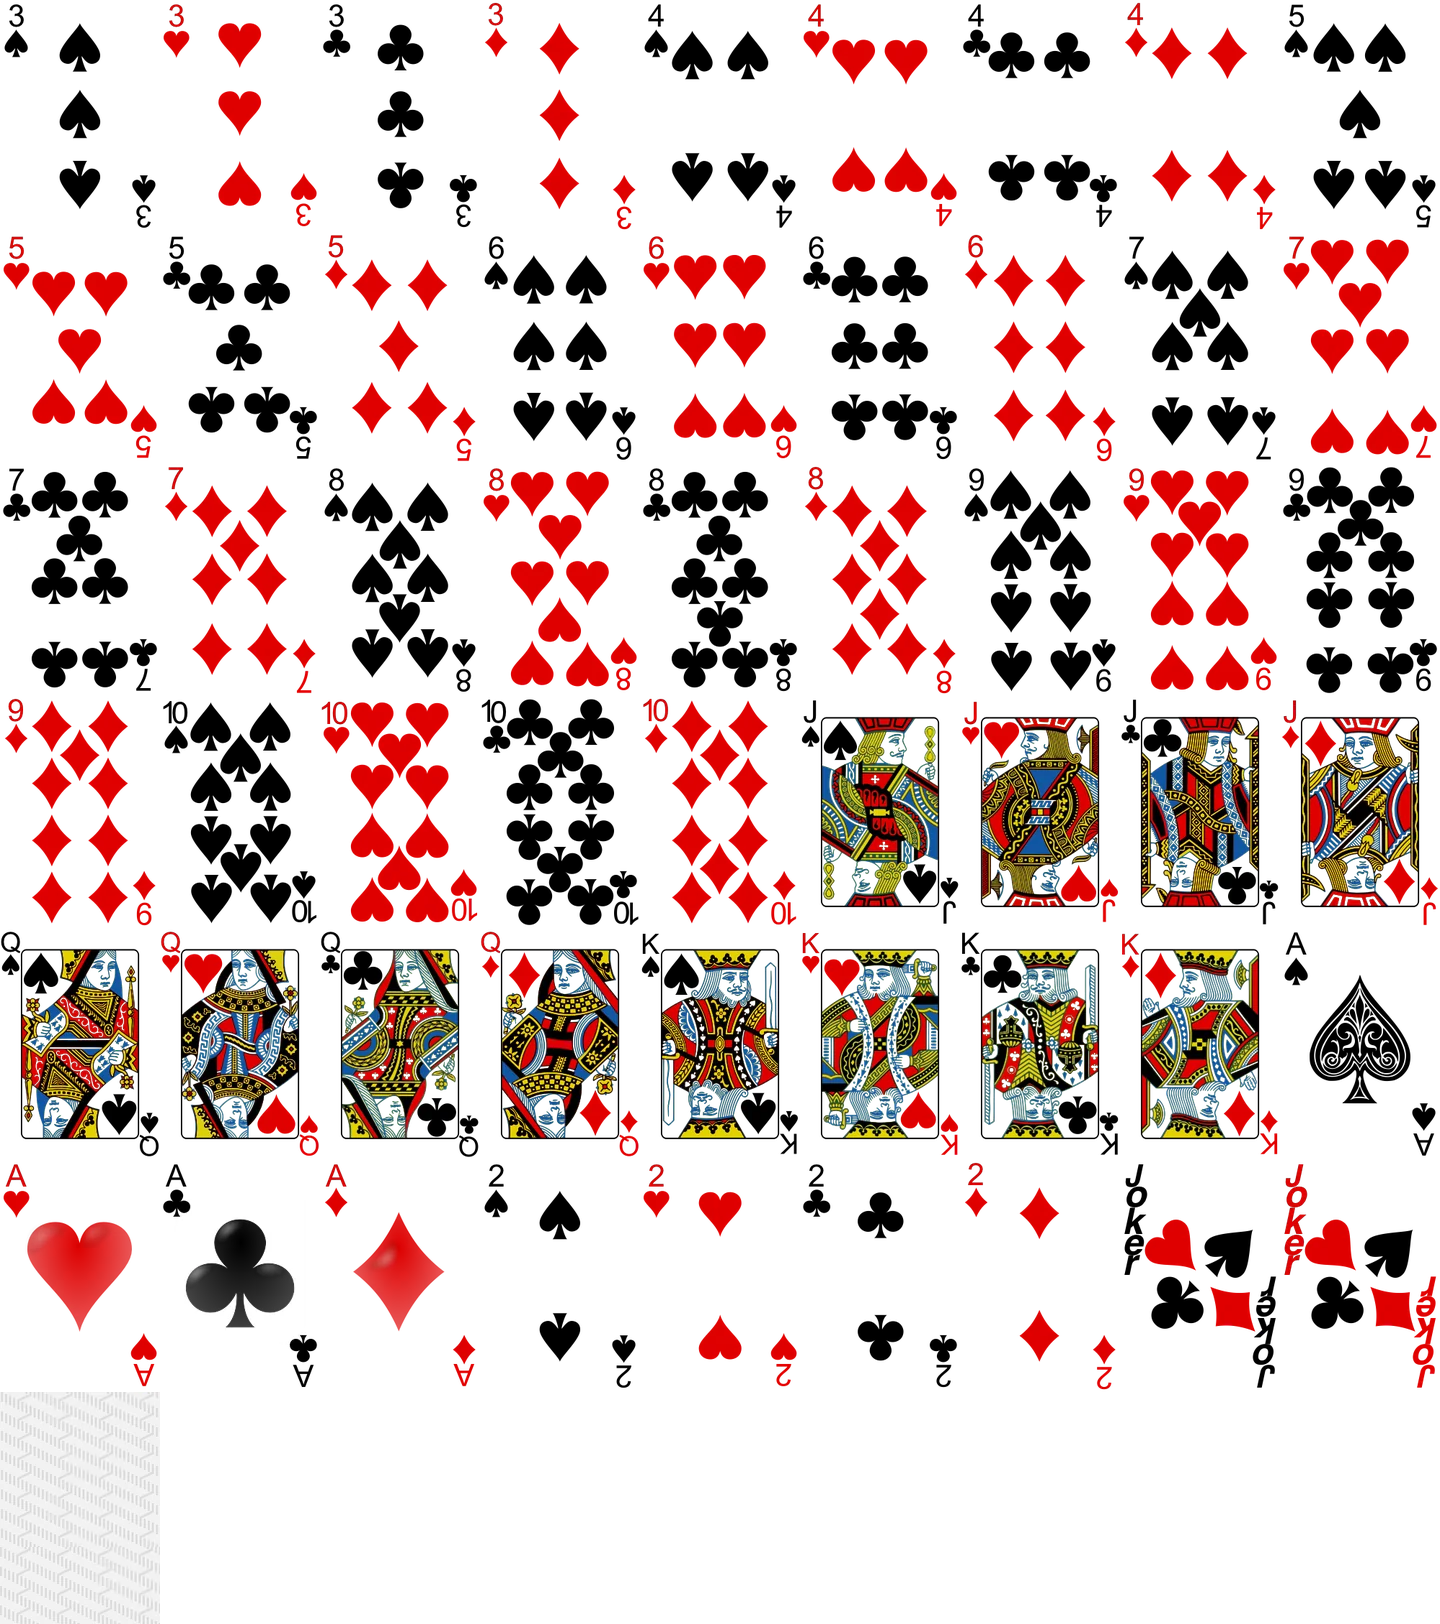
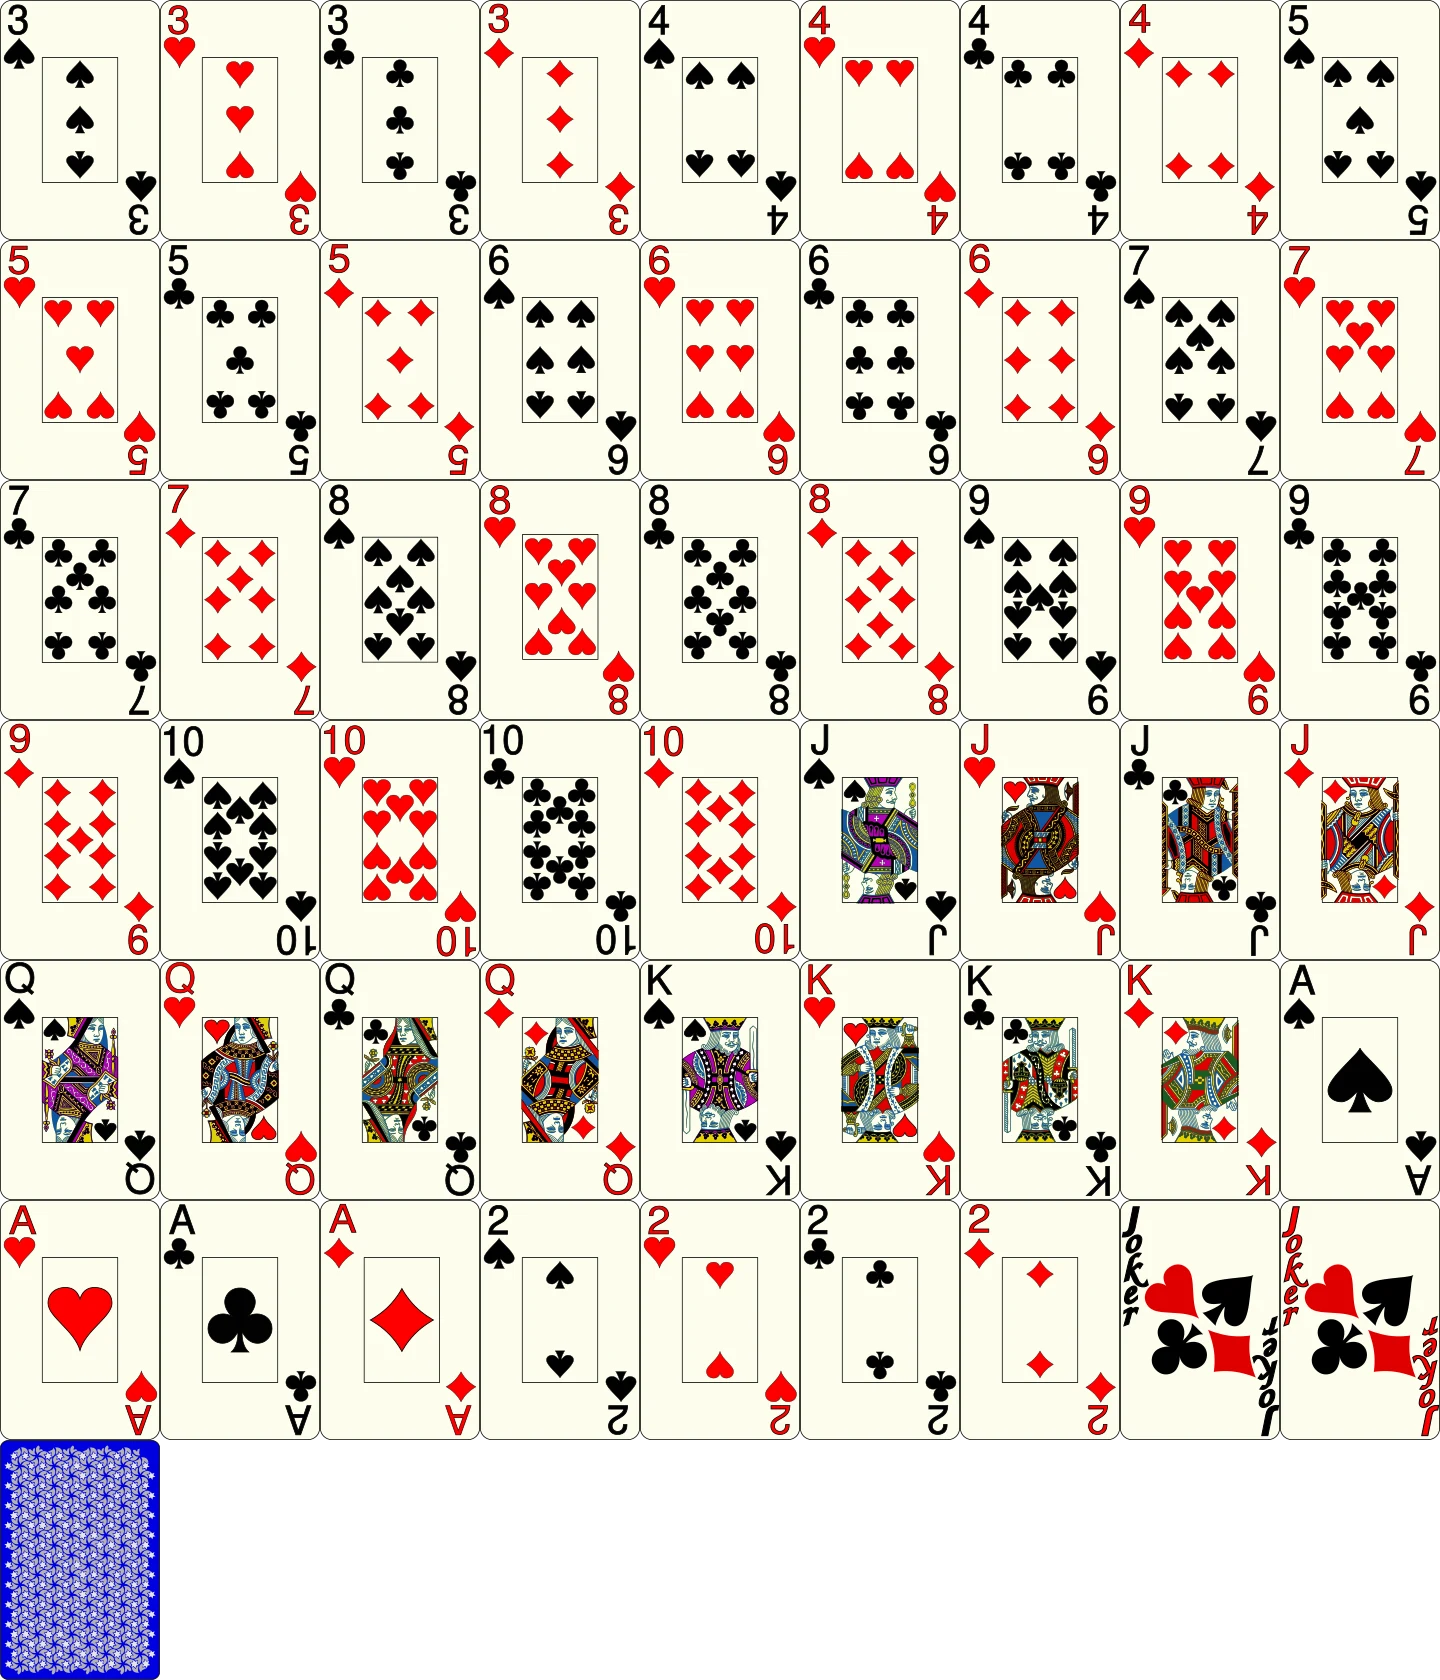
Refine native fullscreen layout with jumbo card artwork and large-font emulator checks

diff --git a/app/src/main/kotlin/com/arcxya/doudizhu/MainActivity.kt b/app/src/main/kotlin/com/arcxya/doudizhu/MainActivity.kt
@@ -60,7 +60,7 @@ class MainActivity: Activity() {
         restore();art=CardArt(this);audio=AudioEngine(this);buildLayout();render()
     }
     @Suppress("DEPRECATION")
-    private fun immersive(){window.decorView.systemUiVisibility=View.SYSTEM_UI_FLAG_IMMERSIVE_STICKY or View.SYSTEM_UI_FLAG_FULLSCREEN or View.SYSTEM_UI_FLAG_HIDE_NAVIGATION or View.SYSTEM_UI_FLAG_LAYOUT_STABLE}
+    private fun immersive(){window.decorView.systemUiVisibility=View.SYSTEM_UI_FLAG_IMMERSIVE_STICKY or View.SYSTEM_UI_FLAG_FULLSCREEN or View.SYSTEM_UI_FLAG_HIDE_NAVIGATION or View.SYSTEM_UI_FLAG_LAYOUT_STABLE or View.SYSTEM_UI_FLAG_LAYOUT_FULLSCREEN or View.SYSTEM_UI_FLAG_LAYOUT_HIDE_NAVIGATION}
     override fun onWindowFocusChanged(hasFocus:Boolean){super.onWindowFocusChanged(hasFocus);if(hasFocus)immersive()}
     private fun buildLayout(){
         val root=LinearLayout(this).apply {orientation=LinearLayout.VERTICAL;setPadding(dp(12),dp(3),dp(12),dp(3));background=GradientDrawable(GradientDrawable.Orientation.TL_BR,intArrayOf(Color.rgb(25,72,49),Color.rgb(12,42,30)))}
@@ -73,7 +73,7 @@ class MainActivity: Activity() {
         val options=button("声音 / 设置"){showSettings()};options.textSize=17f;header.addView(options,LinearLayout.LayoutParams(dp(124),dp(38)))
         table=LinearLayout(this).apply {gravity=Gravity.CENTER_VERTICAL}
         root.addView(table,LinearLayout.LayoutParams(-1,0,1f))
-        val left=text("",19f).apply{setPadding(dp(4),dp(6),dp(4),dp(6));setLineSpacing(dp(3).toFloat(),1f)}
+        val left=text("",19f).apply{setPadding(dp(4),dp(6),dp(4),dp(6));setLineSpacing(dp(3).toFloat(),1f);setAutoSizeTextTypeUniformWithConfiguration(12,19,1,android.util.TypedValue.COMPLEX_UNIT_SP)}
         people.add(left);table.addView(left,LinearLayout.LayoutParams(dp(133),-1))
         val center=LinearLayout(this).apply{orientation=LinearLayout.VERTICAL;setPadding(dp(8),0,dp(8),0)}
         table.addView(center,LinearLayout.LayoutParams(0,-1,1f))
@@ -83,9 +83,9 @@ class MainActivity: Activity() {
         bottom=CardStrip(this,art).apply {contentDescription="地主底牌"};top.addView(bottom,LinearLayout.LayoutParams(dp(79),-1))
         lastLabel=text("",16f).apply{gravity=Gravity.CENTER};center.addView(lastLabel,LinearLayout.LayoutParams(-1,dp(20)))
         last=CardStrip(this,art);center.addView(last,LinearLayout.LayoutParams(-1,0,1f))
-        val right=text("",19f).apply{setPadding(dp(4),dp(6),dp(4),dp(6));setLineSpacing(dp(3).toFloat(),1f)}
+        val right=text("",19f).apply{setPadding(dp(4),dp(6),dp(4),dp(6));setLineSpacing(dp(3).toFloat(),1f);setAutoSizeTextTypeUniformWithConfiguration(12,19,1,android.util.TypedValue.COMPLEX_UNIT_SP)}
         people.add(right);table.addView(right,LinearLayout.LayoutParams(dp(133),-1))
-        info=text("",17f).apply{gravity=Gravity.CENTER_VERTICAL;setSingleLine()};root.addView(info,LinearLayout.LayoutParams(-1,dp(26)))
+        info=text("",17f).apply{gravity=Gravity.CENTER_VERTICAL;setSingleLine();setAutoSizeTextTypeUniformWithConfiguration(14,17,1,android.util.TypedValue.COMPLEX_UNIT_SP)};root.addView(info,LinearLayout.LayoutParams(-1,dp(26)))
         hand=HandLayout(this).apply{contentDescription="我的手牌，点击选择，再点出牌";setPadding(0,dp(4),0,dp(4))};root.addView(hand,LinearLayout.LayoutParams(-1,0,1.55f))
         selection=text("",17f,Color.rgb(255,240,196));root.addView(selection,LinearLayout.LayoutParams(-1,dp(26)))
         actions=LinearLayout(this).apply{gravity=Gravity.CENTER};root.addView(actions,LinearLayout.LayoutParams(-1,dp(54)))
@@ -175,8 +175,9 @@ class MainActivity: Activity() {
         listOf("正常","舒缓","更慢").forEachIndexed{i,label->speedGroup.addView(RadioButton(this).apply{id=200+i;text=label;textSize=18f;setTextColor(Color.WHITE);minHeight=dp(48)})};speedGroup.check(200+speeds.indexOf(speed));speedGroup.setOnCheckedChangeListener{_,id->speed=speeds[id-200];settings.edit().putLong("speed",speed).apply()};content.addView(speedGroup)
         content.addView(text("完全离线 · 牌局自动保存\n两家连续不出后，上一家自由出牌。\n顺子、连对、飞机主体不含 2 和王。\n炸弹、王炸、春天均翻倍。",17f).apply{setPadding(0,dp(12),0,dp(12))})
         val scroll=ScrollView(this).apply{addView(content)}
-        val dialog=AlertDialog.Builder(this).setTitle("声音与牌桌设置").setView(scroll).setPositiveButton("返回牌局",null).setNeutralButton("重新开局"){_,_->confirmRestart()}.create()
-        dialog.setOnDismissListener{modal=false;schedule()};dialog.show()
+        var restartAfterDismiss=false
+        val dialog=AlertDialog.Builder(this).setTitle("声音与牌桌设置").setView(scroll).setPositiveButton("返回牌局",null).setNeutralButton("重新开局"){_,_->restartAfterDismiss=true}.create()
+        dialog.setOnDismissListener{if(restartAfterDismiss)confirmRestart() else {modal=false;schedule()}};dialog.show()
     }
     private fun confirmRestart(){modal=true;handler.removeCallbacksAndMessages(null);AlertDialog.Builder(this).setTitle("重新发牌？").setMessage("当前牌局不计入战绩。").setPositiveButton("重新开局"){_,_->fresh()}.setNegativeButton("继续本局",null).create().apply{setOnDismissListener{modal=false;schedule()};show()}}
     private fun restore(){

diff --git a/app/src/main/kotlin/com/arcxya/doudizhu/CardViews.kt b/app/src/main/kotlin/com/arcxya/doudizhu/CardViews.kt
@@ -9,7 +9,7 @@ import kotlin.math.min
 
 class CardArt(context: Context) {
     val atlas: Bitmap = context.assets.open("cards.webp").use { BitmapFactory.decodeStream(it) }
-    fun source(card: Int) = Rect(card%9*160,card/9*232,card%9*160+160,card/9*232+232)
+    fun source(card: Int) = Rect(card%9*160,card/9*240,card%9*160+160,card/9*240+240)
 }
 class CardFace(context: Context, private val art: CardArt, val card: Int, private val largeIndex: Boolean = false): View(context) {
     private val paint = Paint(Paint.ANTI_ALIAS_FLAG or Paint.FILTER_BITMAP_FLAG)
@@ -18,23 +18,12 @@ class CardFace(context: Context, private val art: CardArt, val card: Int, privat
     init { contentDescription=if(card==54) "未公开底牌" else Rules.cardName(card);isFocusable=largeIndex }
     override fun onDraw(canvas: Canvas) {
         super.onDraw(canvas)
-        val border=dp(3f); val h=min(height-border*2,(width-border*2)*232f/160f);val w=h*160/232
+        val border=dp(3f); val h=min(height-border*2,(width-border*2)*240f/160f);val w=h*160/240
         val box=RectF((width-w)/2,(height-h)/2,(width+w)/2,(height+h)/2)
         paint.color=if(isSelected) Color.rgb(255,209,75) else Color.rgb(249,243,224)
         canvas.drawRoundRect(RectF(box.left-border,box.top-border,box.right+border,box.bottom+border),dp(5f),dp(5f),paint)
         paint.color=Color.WHITE;canvas.drawRoundRect(box,dp(4f),dp(4f),paint)
         canvas.drawBitmap(art.atlas,art.source(card),box,paint)
-        if(largeIndex && card<54) {
-            val rank=Rules.rank(card);val red=(card<52 && card%4 in listOf(1,3))||card==53
-            val size=min(dp(20f),h*.28f)
-            paint.color=Color.WHITE;canvas.drawRect(box.left,box.top,box.left+size*1.3f,box.top+size*1.8f,paint)
-            paint.color=if(red) Color.rgb(186,24,30) else Color.rgb(20,26,31)
-            paint.typeface=Typeface.create(Typeface.SANS_SERIF,Typeface.BOLD);paint.textSize=size;paint.textAlign=Paint.Align.LEFT
-            val label=when(rank){11->"J";12->"Q";13->"K";14->"A";15->"2";16->"小";17->"大";else->rank.toString()}
-            canvas.drawText(label,box.left+dp(1f),box.top+size,paint)
-            paint.textSize=size*.85f
-            canvas.drawText(if(rank>=16)"王" else listOf("♠","♥","♣","♦")[card%4],box.left+dp(1f),box.top+size*1.78f,paint)
-        }
         if(isSelected) {
             paint.color=Color.rgb(32,112,48);canvas.drawCircle(box.right-dp(8f),box.top+dp(9f),dp(10f),paint)
             paint.color=Color.WHITE;paint.typeface=Typeface.DEFAULT_BOLD;paint.textSize=dp(15f);paint.textAlign=Paint.Align.CENTER

diff --git a/app/src/androidTest/kotlin/com/arcxya/doudizhu/NativeUiTest.kt b/app/src/androidTest/kotlin/com/arcxya/doudizhu/NativeUiTest.kt
@@ -6,6 +6,7 @@ import android.graphics.Rect
 import android.view.View
 import android.view.ViewGroup
 import android.widget.Button
+import android.widget.TextView
 import androidx.test.ext.junit.runners.AndroidJUnit4
 import androidx.test.platform.app.InstrumentationRegistry
 import org.junit.Assert.*
@@ -25,8 +26,9 @@ class NativeUiTest {
         assertEquals(20,activity.hand.childCount)
         val hitBoxes=mutableListOf<Rect>()
         inst.runOnMainSync{
-            for(i in 0 until activity.hand.childCount){val v=activity.hand.getChildAt(i);val rect=Rect();assertTrue(v.getGlobalVisibleRect(rect));assertEquals(v.width,rect.width());assertEquals(v.height,rect.height());assertTrue(v.width>=48*context.resources.displayMetrics.density-1);hitBoxes.forEach{assertFalse("Cards overlap",Rect.intersects(it,rect))};hitBoxes.add(rect)}
+            for(i in 0 until activity.hand.childCount){val v=activity.hand.getChildAt(i);val rect=Rect();assertTrue(v.getGlobalVisibleRect(rect));assertEquals(v.width,rect.width());assertEquals(v.height,rect.height());assertTrue(v.width>=48*context.resources.displayMetrics.density-1);assertTrue(v.height>=48*context.resources.displayMetrics.density-1);hitBoxes.forEach{assertFalse("Cards overlap",Rect.intersects(it,rect))};hitBoxes.add(rect)}
             val actionRect=Rect();activity.actions.getGlobalVisibleRect(actionRect);assertTrue("Controls clipped",actionRect.bottom<=decor.height)
+            for(v in all(decor).filterIsInstance<TextView>().filter{it.text.contains("剩 ")}) { assertTrue("Opponent status clipped",v.layout.getLineBottom(v.lineCount-1)<=v.height-v.compoundPaddingTop-v.compoundPaddingBottom) }
             val buttons=all(decor).filterIsInstance<Button>();assertFalse(buttons.first{it.text=="出牌"}.isEnabled)
         }
         val dir=File(context.getExternalFilesDir(null),"screenshots");dir.mkdirs()

diff --git a/docs/release-v2.0.1.md b/docs/release-v2.0.1.md
@@ -1,0 +1,13 @@
+Kotlin 原生重写版。界面使用 Android View / ViewGroup / Button / TextView，卡牌使用本地 WebP 牌面贴图；不包含 WebView、HTML、CSS 或 JavaScript。
+
+- 原生横屏全屏牌桌，按可用空间测量布局，手牌长宽比固定，触控区域互不重叠。
+- 完整实体牌面贴图、放大牌角、选牌标记、清楚的地主身份与剩余张数。
+- Kotlin 规则与三个难度的本地人机，原生存档、设置、对话框。
+- MediaPlayer 循环背景音乐与 SoundPool 出牌音效，后台暂停，音频焦点管理。
+- 仍不申请网络权限，无广告、无内购；Android 8.0 及以上。
+
+此版本通过 Kotlin 规则测试、180 局固定种子对局、APK 编译与 lint，以及 Android 模拟器两种分辨率下的布局、选牌、出牌和重启续局测试。截图见附件。尚未进行实体手机验收。
+
+安装包使用开发测试签名。如与旧版签名冲突，需卸载旧版安装；旧 WebView 版牌局和战绩不迁移至原生版。
+
+2.0.1 截图复核修正：消除状态栏/导航栏预留空白；小屏对手信息自动适配字号；采用原生大牌角贴图，移除遮挡原图的牌角覆盖层；修正重新开局确认期间的人机暂停。
